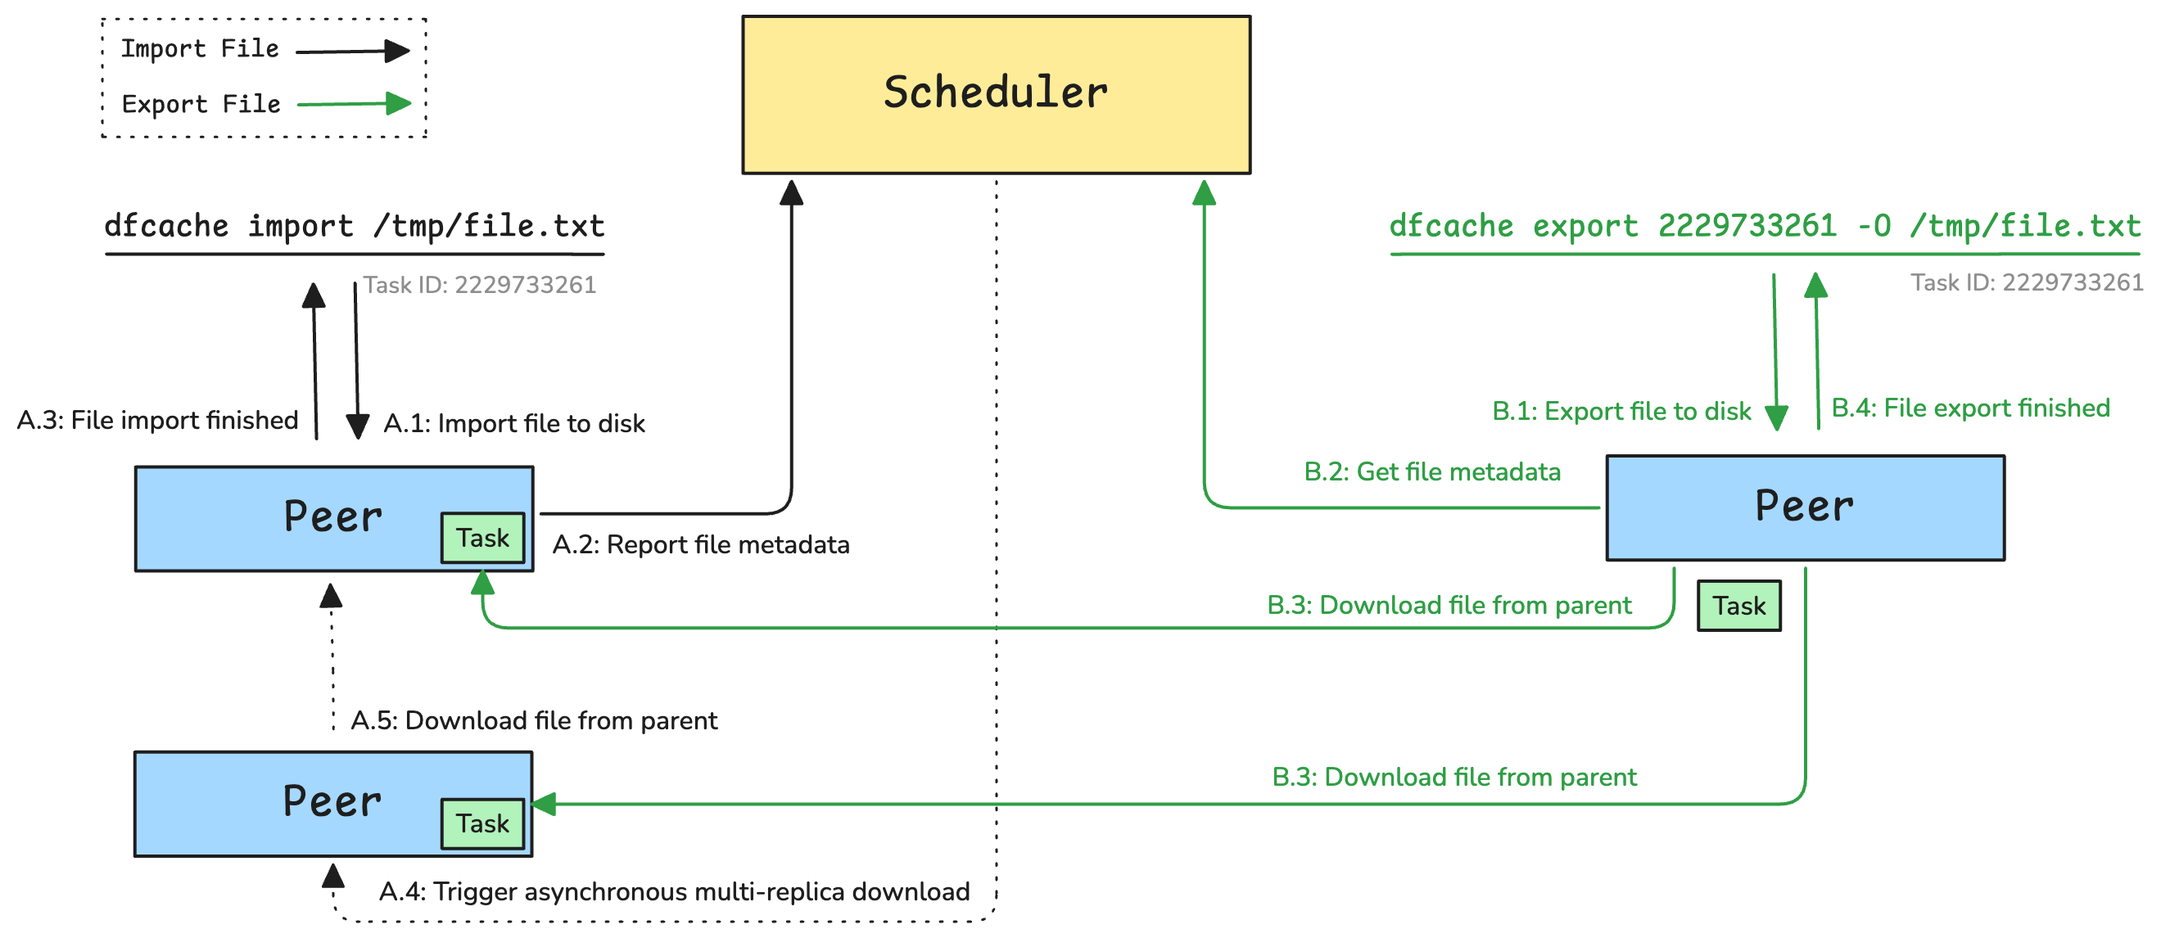
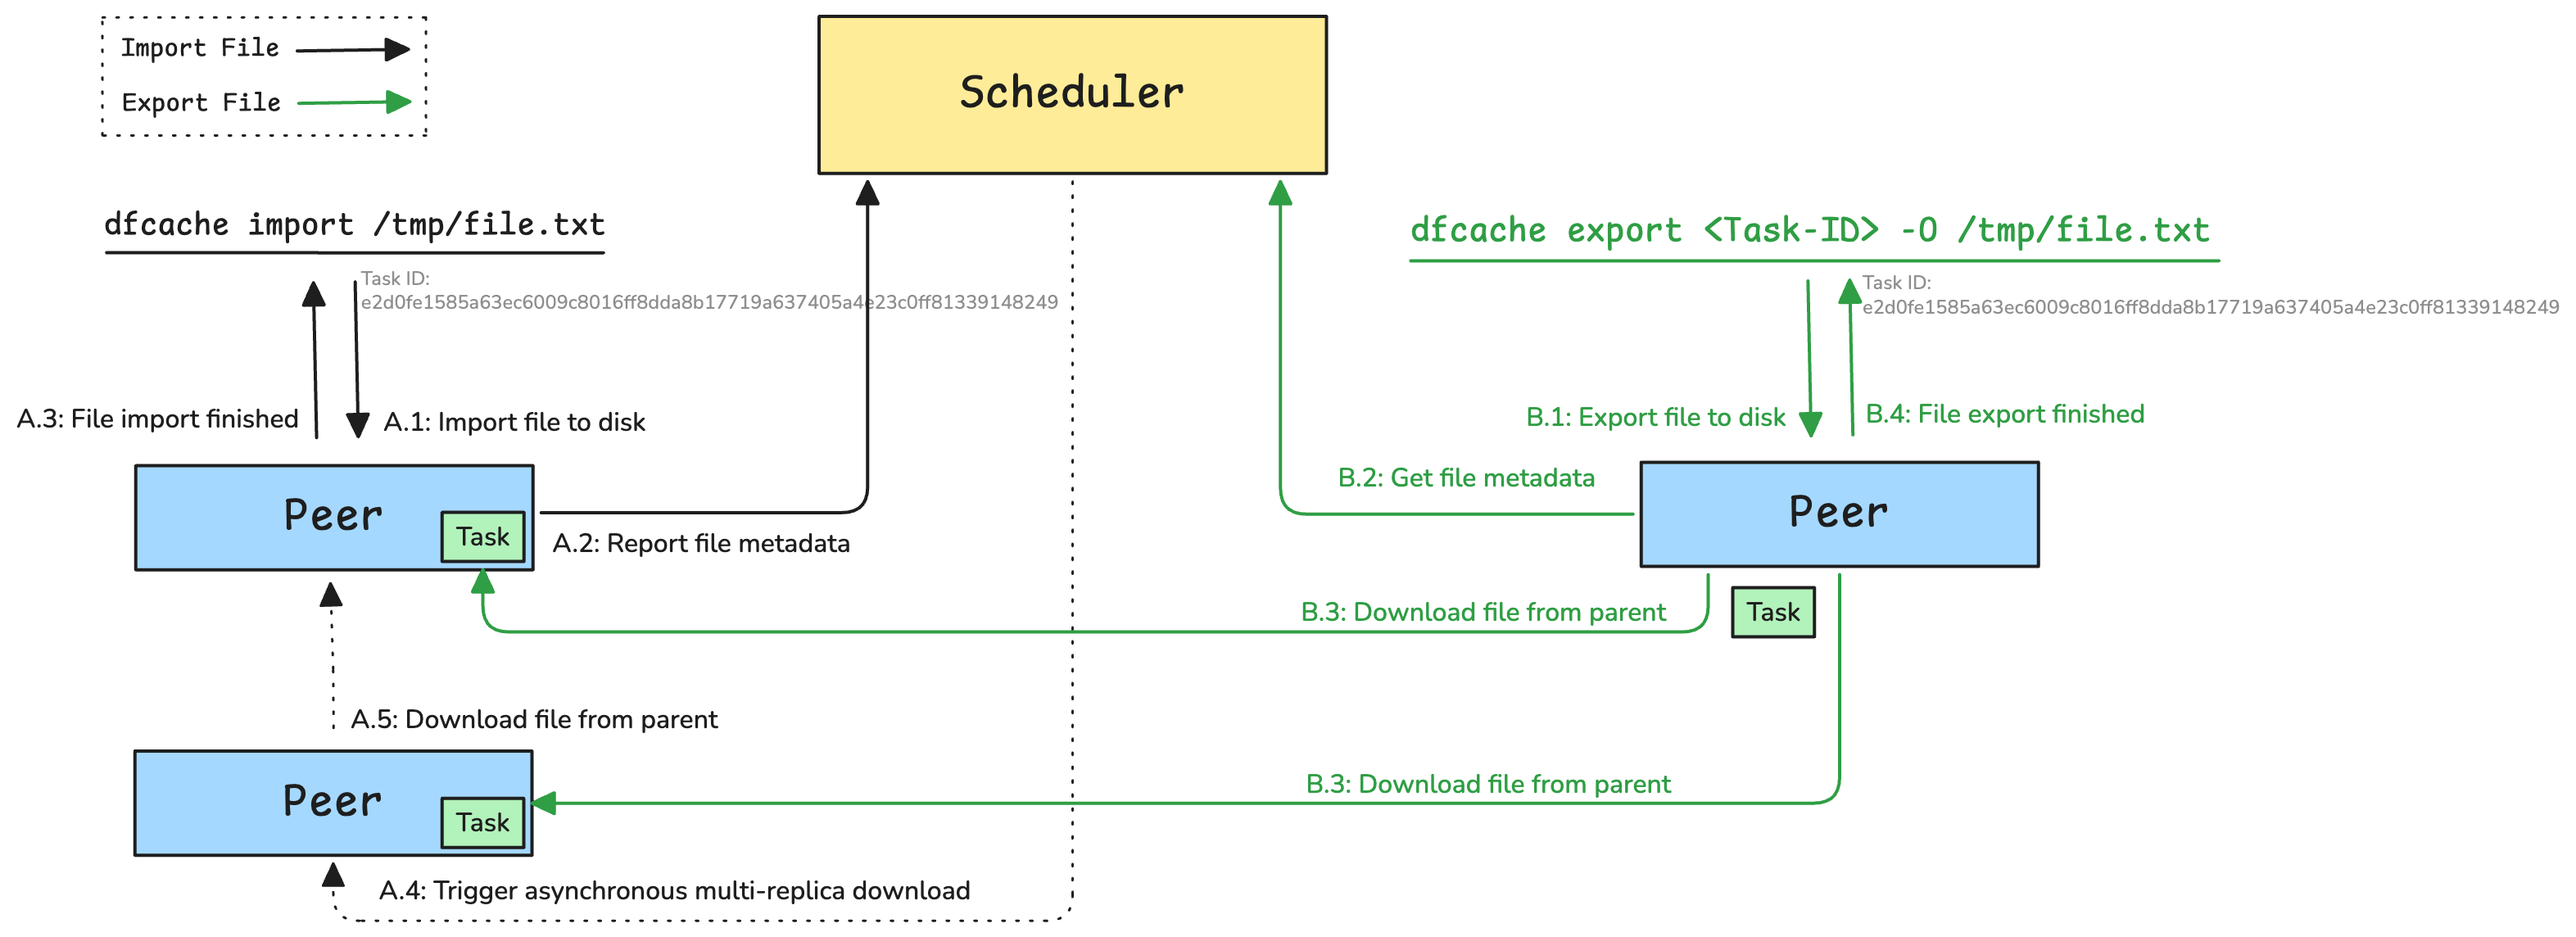
change persistent-cache-task image

diff --git a/docs/concepts/persistent-cache-task.md b/docs/concepts/persistent-cache-task.md
@@ -14,13 +14,13 @@ Use dfcache to import files, please refer to [dfcache](../reference/commands/cli
 
 ```shell
 $ dfcache import /tmp/file.txt
-⣷ Done: 852606796
+⣷ Done: e2d0fe1585a63ec6009c8016ff8dda8b17719a637405a4e23c0ff81339148249
 ```
 
 Use dfcache to export files.
 
 ```shell
-$ dfcache export 852606796 -O /tmp/file.txt
+$ dfcache export e2d0fe1585a63ec6009c8016ff8dda8b17719a637405a4e23c0ff81339148249 -O /tmp/file.txt
 [00:00:00] [############################################################] 8.73 KiB/8.73 KiB (7.30 MiB/s, 0.0s)
 ```
 
